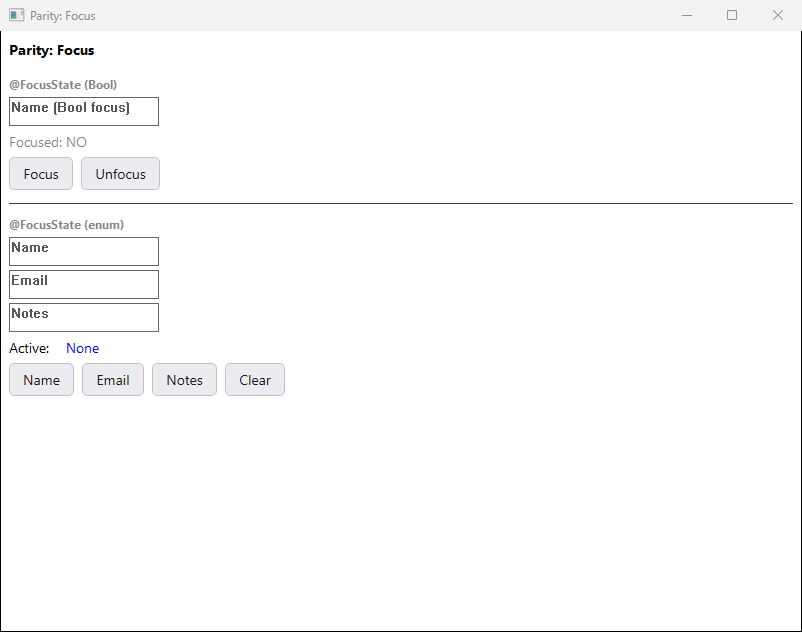
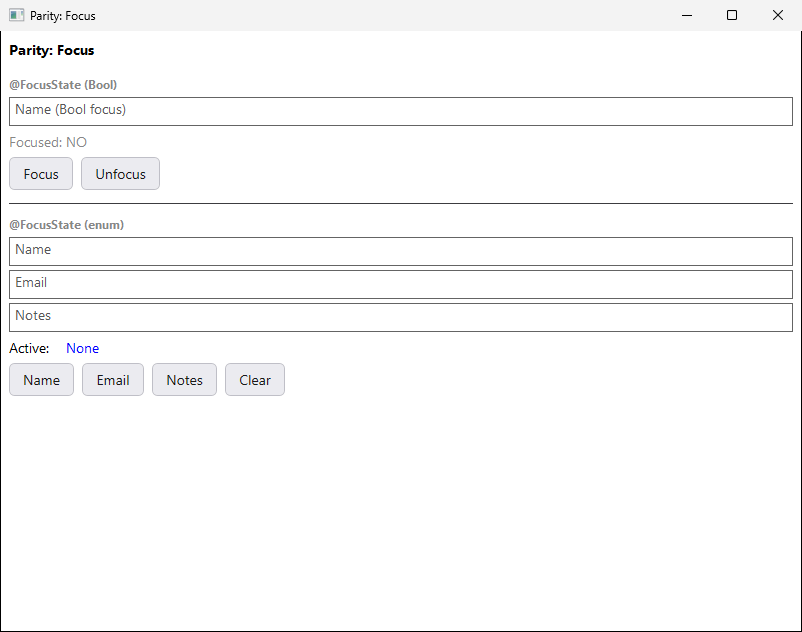
Docs: update Win32 comparison for text-input font fix

diff --git a/docs/architecture/screenshot-comparison-win32.md b/docs/architecture/screenshot-comparison-win32.md
@@ -75,10 +75,10 @@ Reference: `screenshots/macos/` (real SwiftUI) vs `screenshots/windows/` (SwiftO
 | Text (plain/bold/colored/large/caption) | Correct | Correct, matching weights | OK |
 | Button (string label) | Rounded | D2D rounded | OK |
 | Button (custom label) | Faint "Custom label ->" | Faint "Custom label ->" | OK |
-| TextField | Full width, system font | Fixed 150px, legacy System font | Open -- TextField font/width |
+| TextField | Full width, system font | Full width, Segoe UI | OK |
 | Color swatches | Two rows | Two rows | OK |
 | Spacer / Divider sections | Visible | Clipped by window height | Open -- window fit |
-| Overall | Complete | Mostly complete | B |
+| Overall | Complete | Complete but clipped | B+ |
 
 ### 7. ViewsLayout
 
@@ -166,8 +166,8 @@ Reference: `screenshots/macos/` (real SwiftUI) vs `screenshots/windows/` (SwiftO
 |--------|-------|-------|--------|
 | @FocusState (Bool) + Focus/Unfocus | Working | Working | OK |
 | @FocusState (enum) + Name/Email/Notes/Clear | Working | Working | OK |
-| TextFields | Full width, system font | Fixed 150px, legacy System font | Open -- TextField font/width |
-| Overall | Full focus demo | Full focus demo | B+ |
+| TextFields | Full width, system font | Full width, Segoe UI | OK |
+| Overall | Full focus demo | Full focus demo | A- |
 
 ### 16. AppStructure
 
@@ -183,11 +183,10 @@ Reference: `screenshots/macos/` (real SwiftUI) vs `screenshots/windows/` (SwiftO
 | Rating | Examples |
 |--------|----------|
 | A | HelloWorld, StateData, Environment, AppStructure |
-| A- | Stopwatch, ColorStudio, Calculator, ViewsLayout, Navigation |
-| B+ | SimplePaint, ViewsContainers, Modifiers, Gestures, Animation, Focus |
-| B | ViewsBasic |
+| A- | Stopwatch, ColorStudio, Calculator, ViewsLayout, Navigation, Focus |
+| B+ | SimplePaint, ViewsBasic, ViewsContainers, Modifiers, Gestures, Animation |
 
-Most B+/B ratings come from three shared causes (Open Issues 1-3), not from per-example bugs.
+Most B+ ratings come from two shared causes (Open Issues 1-2), not from per-example bugs.
 
 ## DPI Scaling
 
@@ -201,16 +200,16 @@ Evidence: `docs/evidence/win32-default-text-font/`. Not yet checked at 125% or 1
 |---|-------|---------|------|--------|
 | 1 | Window doesn't grow to fit content: the 800x600 automatic default clips tall content, while macOS sizes the window to at least the content's height | ViewsBasic, ViewsLayout, ViewsContainers, Modifiers | Window sizing | Medium |
 | 2 | `.foregroundColor()` applied after `.padding().background()` doesn't reach the inner `Text` | Gestures, Animation | Modifier propagation | Medium |
-| 3 | TextField (EDIT control) never gets a font, so it uses the legacy System font, and it has a fixed 150px width instead of expanding | ViewsBasic, Focus | Same root cause as #22, for EDIT | Low-Med |
-| 4 | ScrollView / List rows are centered instead of leading-aligned | ViewsContainers | Layout | Medium |
-| 5 | Dividers on dark backgrounds are bright white instead of subtle | ColorStudio, Stopwatch | Styling | Low |
-| 6 | SimplePaint canvas page frame not drawn | SimplePaint | Not investigated | ? |
-| 7 | `.frame(minWidth:maxWidth:)` "Flex" box renders at min width (40) instead of max (100) | Modifiers | Layout | Low |
+| 3 | ScrollView / List rows are centered instead of leading-aligned | ViewsContainers | Layout | Medium |
+| 4 | Dividers on dark backgrounds are bright white instead of subtle | ColorStudio, Stopwatch | Styling | Low |
+| 5 | SimplePaint canvas page frame not drawn | SimplePaint | Not investigated | ? |
+| 6 | `.frame(minWidth:maxWidth:)` "Flex" box renders at min width (40) instead of max (100) | Modifiers | Layout | Low |
 
 ## All Fixes Applied
 
 | Fix | Commit | Impact |
 |-----|--------|--------|
+| TextField/SecureField/TextEditor/search field font + TextField width | this PR | Focus B+ -> A-, ViewsBasic B -> B+ |
 | Default Segoe UI font for plain Text (#22) | `83c32bd` | Typography matches macOS everywhere; "×" glyph renders (Modifiers "D0x30" fixed) |
 | Navigation expansion + header DPI (#11) | `fd4d1e3`..`c646d8e` | Navigation content fills the window; header scales at 125-175% |
 | DPI-scaled text, D2D, symbols, window default (#8) | `dc482d8`, `9181cd8`, `6ca8904` | Correct sizing at 150% |
